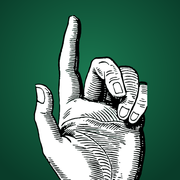
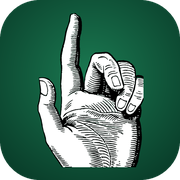
Add files via upload

diff --git a/404.html b/404.html
@@ -5,6 +5,10 @@
 <meta name="viewport" content="width=device-width, initial-scale=1">
 <meta name="pt-color" content="#141414">
 <title>Not found — Damiano Perrella</title>
+<link rel="icon" href="/favicon.ico" sizes="48x48">
+<link rel="icon" type="image/png" sizes="32x32" href="/favicon-32.png">
+<link rel="icon" type="image/png" sizes="16x16" href="/favicon-16.png">
+<link rel="apple-touch-icon" href="/apple-touch-icon.png">
 <!-- absolute paths, because GitHub shows this page at whatever address was mistyped -->
 <script src="/site.js"></script>
 <link rel="stylesheet" href="/clean.css">

diff --git a/cards/index.html b/cards/index.html
@@ -5,6 +5,10 @@
 <meta name="viewport" content="width=device-width, initial-scale=1">
 <meta name="pt-color" content="#1b7a52">
 <title>All Cards — Damiano Perrella</title>
+<link rel="icon" href="/favicon.ico" sizes="48x48">
+<link rel="icon" type="image/png" sizes="32x32" href="/favicon-32.png">
+<link rel="icon" type="image/png" sizes="16x16" href="/favicon-16.png">
+<link rel="apple-touch-icon" href="/apple-touch-icon.png">
 <script src="/site.js"></script>
 <style>
   /* ============================================================

diff --git a/index.html b/index.html
@@ -5,6 +5,10 @@
 <meta name="viewport" content="width=device-width, initial-scale=1">
 <meta name="pt-color" content="#1b7a52">
 <title>Damiano Perrella — Architect</title>
+<link rel="icon" href="/favicon.ico" sizes="48x48">
+<link rel="icon" type="image/png" sizes="32x32" href="/favicon-32.png">
+<link rel="icon" type="image/png" sizes="16x16" href="/favicon-16.png">
+<link rel="apple-touch-icon" href="/apple-touch-icon.png">
 <script src="site.js"></script>
 <style>
   /* ============================================================

diff --git a/project/index.html b/project/index.html
@@ -5,6 +5,10 @@
 <meta name="viewport" content="width=device-width, initial-scale=1">
 <meta name="pt-color" content="#141414">
 <title>Project — Damiano Perrella</title>
+<link rel="icon" href="/favicon.ico" sizes="48x48">
+<link rel="icon" type="image/png" sizes="32x32" href="/favicon-32.png">
+<link rel="icon" type="image/png" sizes="16x16" href="/favicon-16.png">
+<link rel="apple-touch-icon" href="/apple-touch-icon.png">
 <script src="../site.js"></script>
 <link rel="stylesheet" href="../clean.css">
 <style>

diff --git a/about/index.html b/about/index.html
@@ -5,6 +5,10 @@
 <meta name="viewport" content="width=device-width, initial-scale=1">
 <meta name="pt-color" content="#141414">
 <title>About — Damiano Perrella</title>
+<link rel="icon" href="/favicon.ico" sizes="48x48">
+<link rel="icon" type="image/png" sizes="32x32" href="/favicon-32.png">
+<link rel="icon" type="image/png" sizes="16x16" href="/favicon-16.png">
+<link rel="apple-touch-icon" href="/apple-touch-icon.png">
 <script src="../site.js"></script>
 <link rel="stylesheet" href="../clean.css">
 </head>

diff --git a/fate/index.html b/fate/index.html
@@ -5,6 +5,10 @@
 <meta name="viewport" content="width=device-width, initial-scale=1">
 <meta name="pt-color" content="#141414">
 <title>Fate — Damiano Perrella</title>
+<link rel="icon" href="/favicon.ico" sizes="48x48">
+<link rel="icon" type="image/png" sizes="32x32" href="/favicon-32.png">
+<link rel="icon" type="image/png" sizes="16x16" href="/favicon-16.png">
+<link rel="apple-touch-icon" href="/apple-touch-icon.png">
 <script src="../site.js"></script>
 <link rel="stylesheet" href="../clean.css">
 <style>
